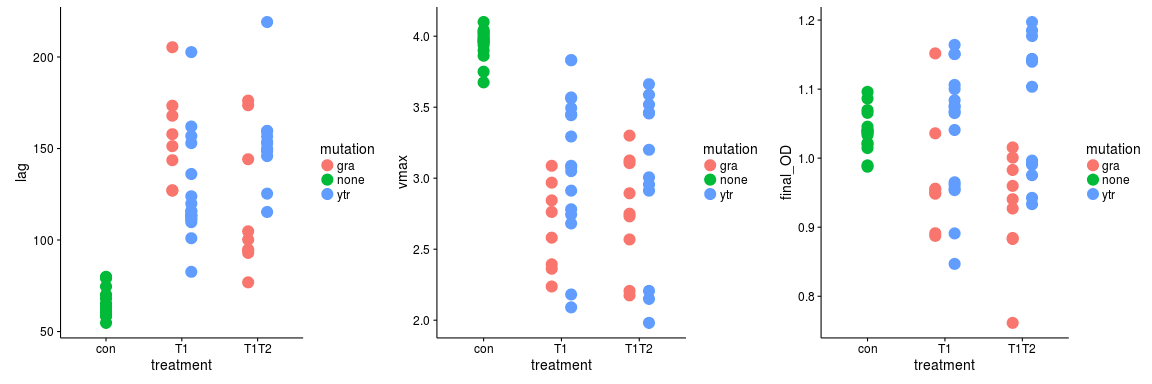
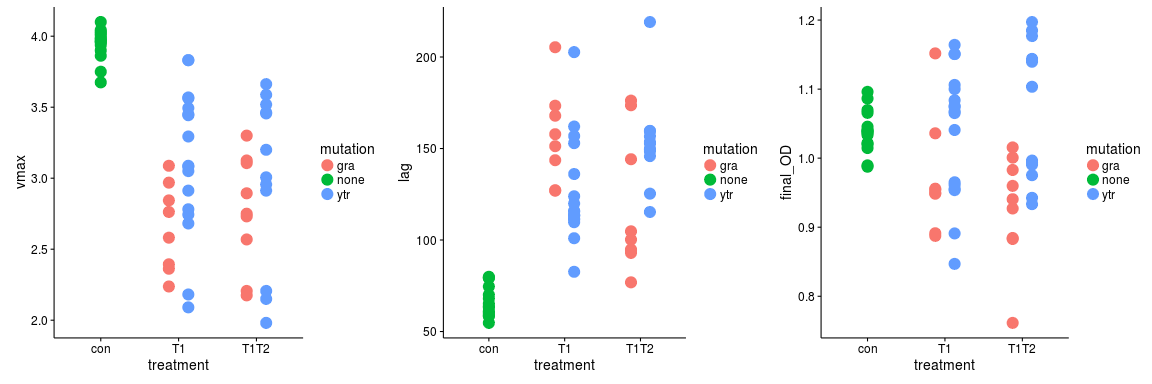
sorted plot panel order

diff --git a/javi.md b/javi.md
@@ -204,7 +204,7 @@ mlag <- ggplot(groMU, aes(x = treatment, y = lag, color = mutation)) +
   geom_point(size = 5, position=position_dodge(width = 0.5))
 mod <- ggplot(groMU, aes(x = treatment, y = final_OD, color = mutation)) +
   geom_point(size = 5, position=position_dodge(width = 0.5))
-plot_grid(mlag, mvmax, mod, nrow = 1)
+plot_grid(mvmax, mlag, mod, nrow = 1)
 dev.off()
 ```
 
